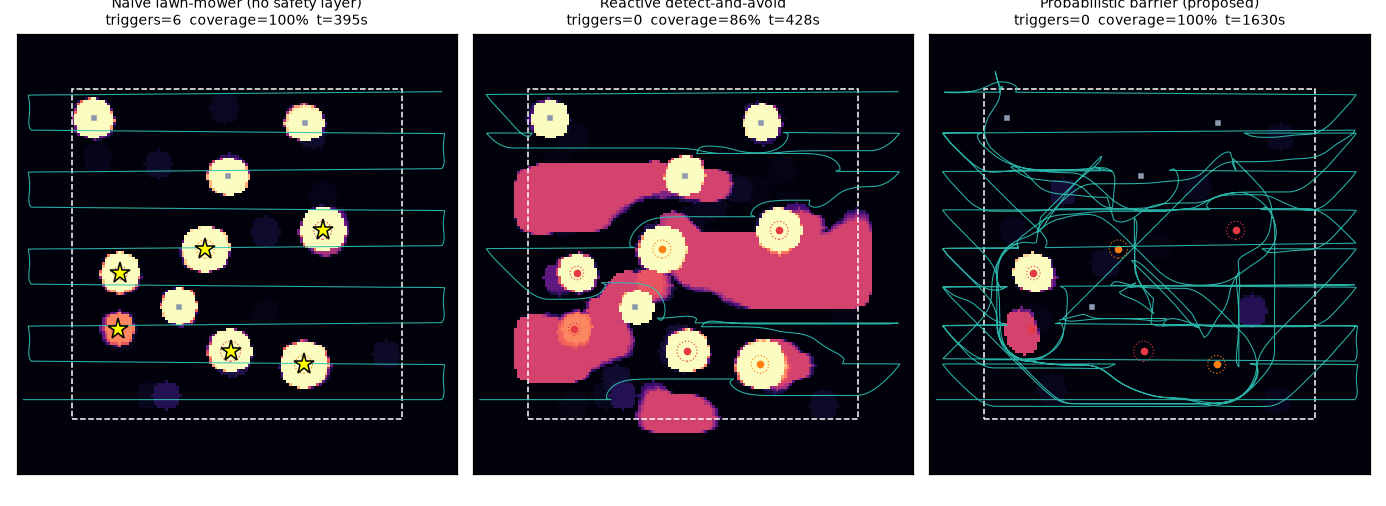
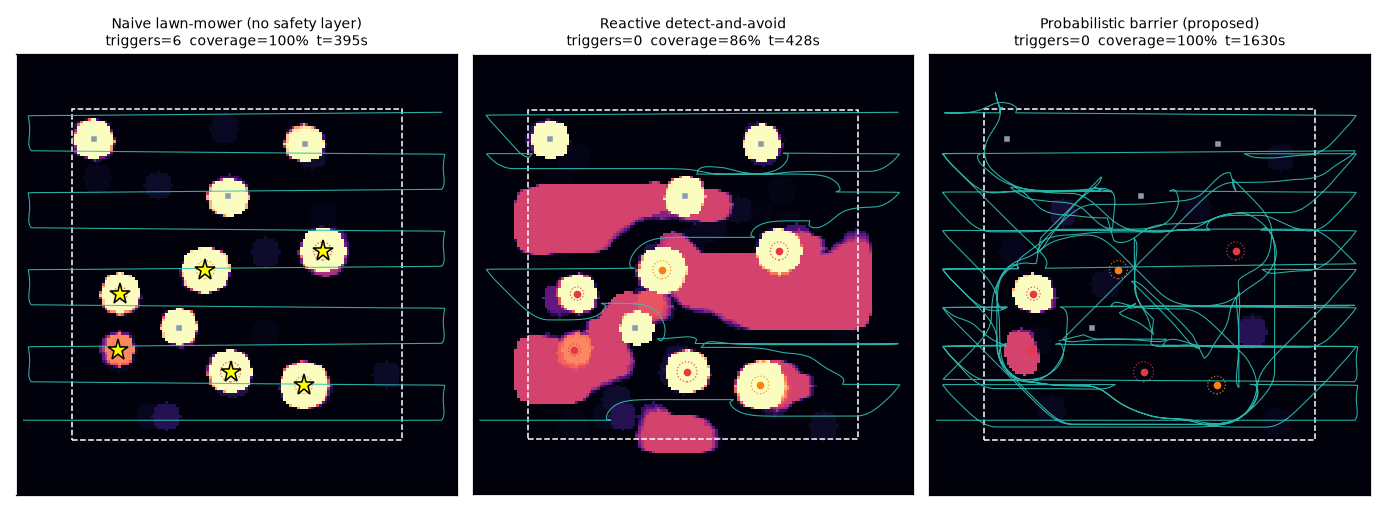
Fix clipped titles in summary figures (bbox_inches=tight); regenerate summaries

diff --git a/lastmetre/viz.py b/lastmetre/viz.py
@@ -61,7 +61,7 @@ def summary_figure(sims, path, titles=None):
         ax.set_title(f"{title}\ntriggers={len(sim.triggers)}  coverage={cov:.0%}  t={sim.t:.0f}s",
                      fontsize=9)
     fig.tight_layout()
-    fig.savefig(path)
+    fig.savefig(path, bbox_inches="tight", pad_inches=0.15)
     plt.close(fig)
 
 
